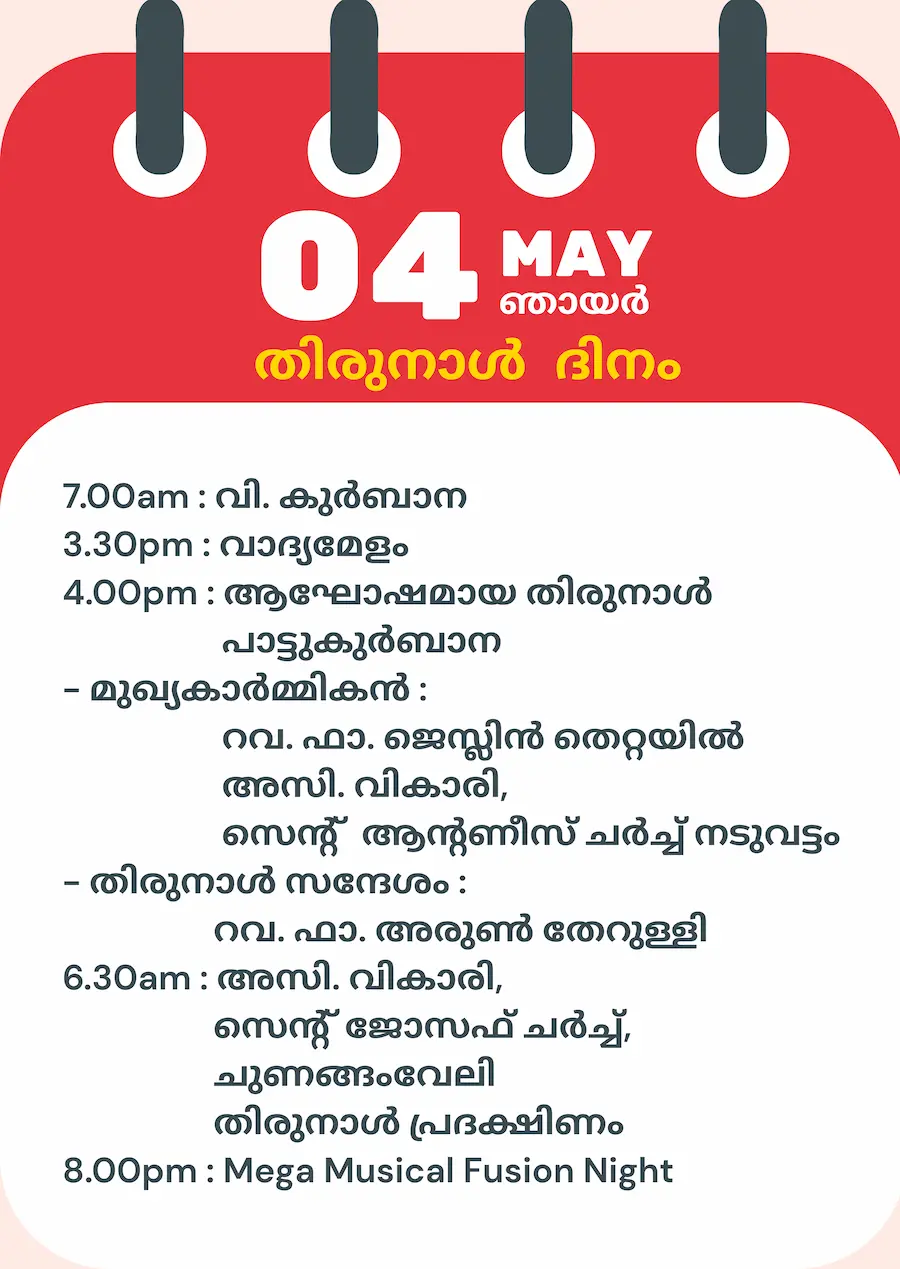
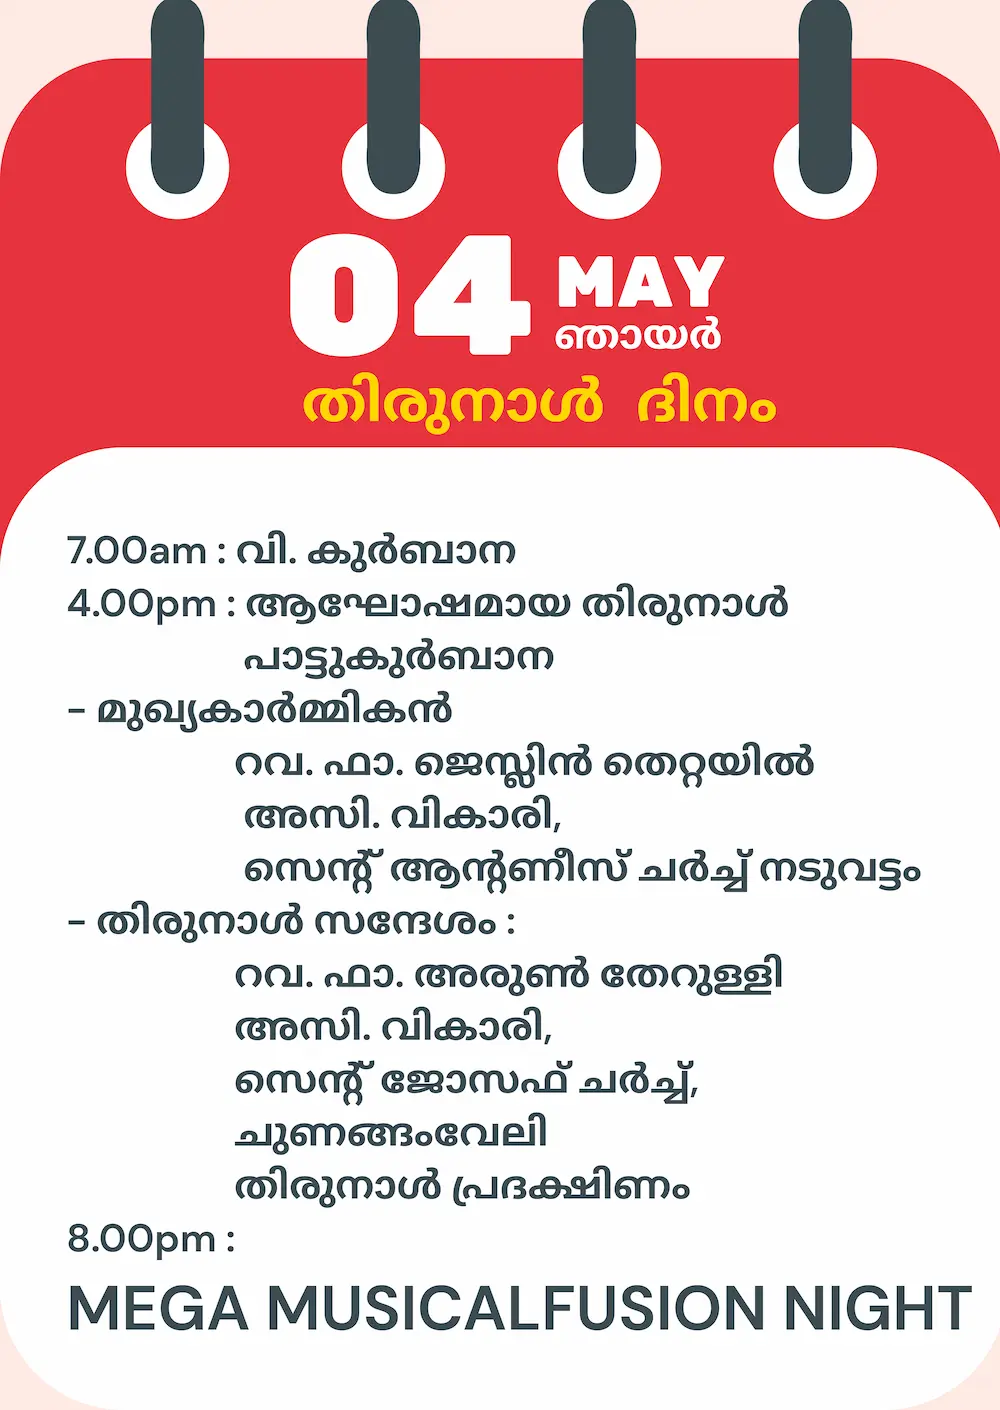
marquee and front fix

Changed region(s): [[0.0622, 0.3688, 0.9644, 0.9527], [0.28, 0.2151, 0.7778, 0.3073]]

diff --git a/index.html b/index.html
@@ -15,7 +15,7 @@
 </head>
 <body class="festive-bg">
     <!-- Festive Marquee Banner -->
-    <div class="w-full bg-gradient-to-r from-pink-400 via-yellow-300 to-green-300 py-2 shadow-lg overflow-hidden relative z-50">
+    <div class="w-full bg-gradient-to-r from-pink-400 via-yellow-300 to-green-300 py-2 shadow-lg overflow-hidden fixed top-0 left-0 z-50" style="width:100vw;">
         <div class="marquee text-lg md:text-xl font-bold text-rose-800 flex items-center gap-4">
             <span>🎉</span>
             <span>തിരുനാൾ മംഗളങ്ങൾ! ഏവർക്കും സന്തോഷവും സമാധാനവും നിറഞ്ഞ തിരുനാൾ ആശംസകൾ!</span>
@@ -24,18 +24,20 @@
             <span>🌟</span>
         </div>
     </div>
-    <!-- Confetti button moved into image container below -->
+    <div style="height:56px;"></div> <!-- Spacer for fixed marquee height -->
+    <div style="position:relative;">
+        <img src="events/front.webp" alt="" class="w-full block mx-auto" style="max-width:100vw;">
+        <button id="confetti-toggle" class="absolute top-2 right-2 text-pink-700 font-bold text-xl z-50" aria-pressed="false" style="z-index:70; background:none; border:none; box-shadow:none; padding:0;">
+            <span id="confetti-toggle-icon">🎉</span>
+        </button>
+        <!-- <img src="events/page 2.webp" alt=""> -->
+    </div>
     <canvas class="confetti" id="confetti-canvas"></canvas>
-    
-    <div class="container mx-auto">
+
+    <div class="container mx-auto px-4">
         <header class="">
-            <div class="flex flex-col md:flex-row items-center justify-between gap-6 relative">
-                <!-- Confetti button absolutely positioned in top right of image -->
-                <button id="confetti-toggle" class="absolute top-2 right-2 text-2xl focus:outline-none z-20 bg-transparent border-none p-0 m-0" aria-pressed="false" style="background:none;box-shadow:none;border:none;">
-                    <span id="confetti-toggle-icon">🎉</span>
-                    <span id="confetti-toggle-text"></span>
-                </button>
-                <img src="events/front.webp" alt="" class="w-full" />
+            <div class="flex flex-col md:flex-row items-center justify-between gap-6">
+                <!-- <img src="events/front.webp" alt=""> -->
             </div>
         </header>
         <!-- Festive Umbrella Divider -->
@@ -79,7 +81,7 @@
 
         <!-- Program Carousel Section -->
         <section class="max-w-2xl mx-auto my-8">
-            <h2 class="text-xl md:text-2xl font-bold text-center text-yellow-800 mb-4">തിരുനാൾ കാര്യപരിപാടികൾ</h2>
+            <h2 class="text-2xl md:text-2xl font-bold text-center text-yellow-800 mb-4">തിരുനാൾ കാര്യപരിപാടികൾ</h2>
             <div class="relative">
                 <button id="carousel-prev" class="absolute left-0 top-1/2 -translate-y-1/2 bg-white bg-opacity-70 rounded-full shadow p-2 z-10 hover:bg-yellow-100" aria-label="Previous">
                     <svg xmlns="http://www.w3.org/2000/svg" class="h-6 w-6 text-yellow-700" fill="none" viewBox="0 0 24 24" stroke="currentColor"><path stroke-linecap="round" stroke-linejoin="round" stroke-width="2" d="M15 19l-7-7 7-7" /></svg>
